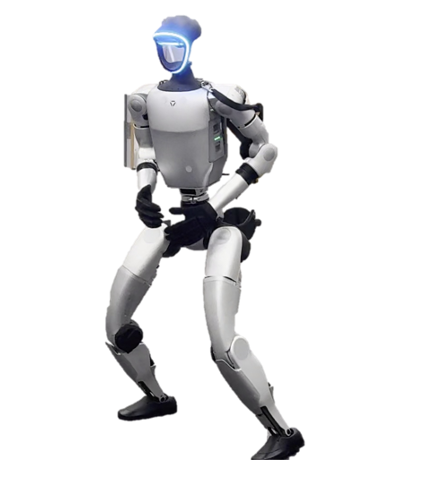
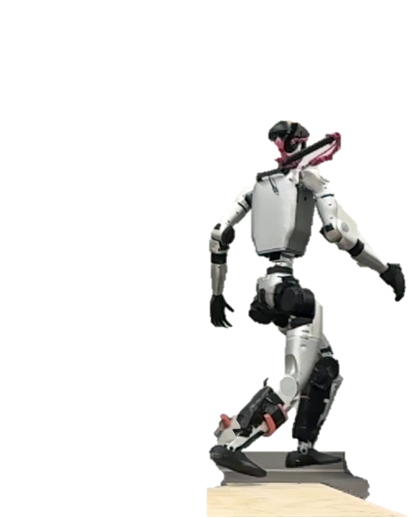
project page part of videos

diff --git a/index.html b/index.html
@@ -58,8 +58,8 @@
   <script src="./static/js/bulma-slider.min.js"></script>
   <script src="./static/js/index.js"></script>
 
-  <meta property="og:image" content="https://lecar-lab.github.io/FIRM-humanoid/static/images/hero_static.gif" />
-  <meta property="og:image:secure" content="https://lecar-lab.github.io/FIRM-humanoid/static/images/hero_static.gif" />
+  <meta property="og:image" content="https://lecar-lab.github.io/GaitSpan-humanoid/static/images/hero_static.gif" />
+  <meta property="og:image:secure" content="https://lecar-lab.github.io/GaitSpan-humanoid/static/images/hero_static.gif" />
 </head>
 
 <section class="hero is-link is-fullheight video">
@@ -184,58 +184,58 @@
     <div class="columns is-centered">
       <div class="column is-full-width">
         <h2 class="title is-2" style="text-align: center; padding-bottom: 10px;">
-          <em>Autonomous</em> Fall Damage Mitigation and Recovery
+           Gait Emergence and Transition via a <em>single</em> Policy
         </h2>      
-          <p class="content is-medium" style="text-align: center; padding-bottom: 20px;">1) We evaluate <strong style="color: #13c253; font-weight: 800;">FIRM</strong> under different types of terrains: <strong style="color: darkgreen; font-weight: 800;">Grass, Red-Soil Slope, Form, and Irregular debris</strong>. <strong style="color: #13c253; font-weight: 800;">FIRM</strong>  is also robust under perturbation with deformable payload. </p>
+<!--           <p class="content is-medium" style="text-align: center; padding-bottom: 20px;">We evaluate <strong style="color: #13c253; font-weight: 800;">GaitSpan</strong> under different types of  <strong style="color: darkblue; font-weight: 800;">speeds</strong>, <strong style="color: darkgreen; font-weight: 800;">terrains</strong>, and <strong style="color: orange; font-weight: 800;">embodiments</strong>. 
+             <br>
+           <strong style="color: #13c253; font-weight: 800;">GaitSpan</strong>  is also robust under various perturbations like heavy payload, and low-friction shoes that induce slippery contacts. </p> -->
+               <p class="content is-medium" style="text-align: center; padding-bottom: 20px;">
+                <span style="display: inline-block; text-align: left;">
+                  We evaluate <strong style="color: #13c253; font-weight: 800;">GaitSpan</strong> under different types of 
+                  <strong style="color: darkblue; font-weight: 800;">speeds</strong>, 
+                  <strong style="color: darkgreen; font-weight: 800;">terrains</strong>, and 
+                  <strong style="color: orange; font-weight: 800;">embodiments</strong>.
+                  All gaits in real world emerge from learning fully in simulation by using a readily available walking policy as the seed for growing new skills, without relying on human demos, or multi-expert learning with gait labels.
+                </span>
+              </p>
+              
             <div class="columns">
               <div class="column has-text-centered">
-                <video autoplay muted loop playsinline controls preload="auto" 
-                       src="./static/videos/12-outdoor-uneven.mov" 
+                <video autoplay loop playsinline controls preload="auto" 
+                       src="./static/videos/gs-main-teaser.mov" 
                        width="100%" style="border-radius:10px;">
                  </video>
               </div>
             </div>
+            </p> 
+               <p class="content is-medium" style="text-align: center; padding-bottom: 20px;">
+                <span style="display: inline-block; text-align: left;">
+                  <strong style="color: #13c253; font-weight: 800;">GaitSpan</strong> is also robust under various perturbations, like heavy payloads and low-friction shoes that induce slippery contacts. 
+                </span>
+              </p>
             <div class="columns is-centered">
               <div class="column has-text-centered">
                 <video autoplay muted loop playsinline controls preload="auto" 
-                       src="./static/videos/12-indoor-uneven.mov" 
+                       src="./static/videos/payload-weight.mov" 
                        width="100%" style="border-radius:10px;">
                 </video>
+                <p style="margin-top: 0.5rem; font-size: 0.95rem;">
+                    <strong>(a)</strong> Heavy payload & low-friction shoes perturbation.
+                </p>
+
               </div>
               <div class="column has-text-centered">
                 <video autoplay muted loop playsinline controls preload="auto" 
-                       src="./static/videos/12-indoor-payload.mov" 
+                       src="./static/videos/w_payload_shoes.mov" 
                        width="100%" style="border-radius:10px;">
                 </video>
+                <p style="margin-top: 0.5rem; font-size: 0.95rem;">
+                    <strong>(b)</strong> Acceleration from 0.5 m/s to 2.5 m/s under perturbations.
+                </p>
               </div>
             </div>
         
             <p> 
-            <p class="content is-medium" style="text-align: center; padding-bottom: 20px;">2) We compare the performance of <strong style="color: #13c253; font-weight: 800;">FIRM</strong> with <strong style="color: #e63946; font-weight: 800;"> FIRM wo Online Adapter</strong> to better evaluate context-awareness. </p>  
-          <!-- Row 1 -->
-          <div class="columns is-vcentered">
-            <!-- Left: FIRM w/o Online Adapter -->
-            <div class="column has-text-centered">
-              <h3 class="title is-3" style="margin-bottom: 10px; font-size: x-large;">
-                FIRM w/o Online Adapter
-              </h3>
-              <video autoplay muted loop playsinline controls preload="auto"
-                     src="./static/videos/no-adapt.mov"
-                     style="width: 100%; border-radius:10px;">
-              </video>
-            </div>
-
-            <!-- Right: FIRM (Ours) -->
-            <div class="column has-text-centered">
-              <h3 class="title is-3" style="margin-bottom: 10px; font-size: x-large;">
-                FIRM (Ours)
-              </h3>
-              <video autoplay muted loop playsinline controls preload="auto"
-                     src="./static/videos/adapt.mov"
-                     style="width: 100%; border-radius:10px;">
-              </video>
-            </div>
-          </div>
       </div> 
     </div>
   </div>
@@ -294,7 +294,7 @@
           Fall Damage Mitigation
         </h2>
         <p class="content is-medium" style="text-align: center; padding-bottom: 20px;">
-          We compare the quantitative performance of <strong style="color: #13c253; font-weight: 800;">FIRM</strong> with two <strong style="color: #e63946; font-weight: 800;">baselines</strong> that uses <em>passive control when fall happens (i.e., Freezing Mode) and pure tracking (i.e., sparse key-frame tracking)</em>, on the simulator.
+          We compare the quantitative performance of <strong style="color: #13c253; font-weight: 800;">GaitSpan</strong> with two <strong style="color: #e63946; font-weight: 800;">baselines</strong> that uses <em>passive control when fall happens (i.e., Freezing Mode) and pure tracking (i.e., sparse key-frame tracking)</em>, on the simulator.
         </p> 
               <div class="column">
               <!--   <h3 class="title is-3" style="text-align: center; margin-bottom: 10px; font-size: x-large;"></h3> -->
@@ -320,7 +320,7 @@
           Fall Recovery
         </h2>
         <p class="content is-medium" style="text-align: center; padding-bottom: 20px;">
-          1) We evaluate real-world performance of <strong style="color: #13c253; font-weight: 800;">FIRM</strong> on different terrian environments.
+          1) We evaluate real-world performance of <strong style="color: #13c253; font-weight: 800;">GaitSpan</strong> on different terrian environments.
         </p>        
         <tr>
           <td>
@@ -345,7 +345,7 @@
             <br>
             
         <p class="content is-medium" style="text-align: center; padding-bottom: 20px;">
-          2) We compare the real-world performance of <strong style="color: #13c253; font-weight: 800;">FIRM</strong> with a <strong style="color: #e63946; font-weight: 800;"> baseline</strong> that uses given trajectory (i.e., Unitree G1 Controller) on outdoor environments. </p>  
+          2) We compare the real-world performance of <strong style="color: #13c253; font-weight: 800;">GaitSpan</strong> with a <strong style="color: #e63946; font-weight: 800;"> baseline</strong> that uses given trajectory (i.e., Unitree G1 Controller) on outdoor environments. </p>  
           <div class="columns is-vcentered">
             <div class="column has-text-centered">
               <h3 class="title is-2" style="margin-bottom: 10px; font-size: x-large;">
@@ -358,7 +358,7 @@
             </div>
             <div class="column has-text-centered">
               <h3 class="title is-2" style="margin-bottom: 10px; font-size: x-large;">
-                FIRM (Ours)
+                GaitSpan (Ours)
               </h3>
               <video autoplay muted loop playsinline controls preload="auto"
                      src="./static/videos/ours-wave-1.mov"
@@ -376,99 +376,179 @@
 
 
 <section class="section">
-  <div class="container" style="max-width: 960px; margin: 0 auto;">
-    <div class="columns is-centered has-text-centered">
-      <div class="column is-two-thirds">
-        <h2 class="title is-2">Abstract</h2>
-        <div class="content has-text-justified">
-          <p> Falling is an inherent risk of humanoid mobility. Maintaining stability is thus a primary safety focus in robot control and learning, yet no existing approach fully averts loss of balance.When instability does occur, prior work addresses only isolated aspects of falling: avoiding falls, choreographing a controlled descent, or standing up afterward.  Consequently, humanoid robots lack integrated strategies for impact mitigation and prompt recovery when real falls defy these scripts.
-          <span class="method" style="color: darkred;">We aim to go beyond keeping balance to make the entire fall-and-recovery process safe and autonomous</span> : prevent falls when possible, reduce impact when unavoidable, and stand up when fallen. By fusing sparse human demonstrations with reinforcement learning and an adaptive diffusion-based memory of safe reactions, we learn whole-body behaviors that unify fall prevention, impact mitigation, and rapid recovery in one policy.
-          Experiments in simulation and on a Unitree G1 demonstrate robust sim-to-real transfer, lower impact forces, and consistently fast recovery across diverse disturbances, pointing toward safer, more resilient humanoids in real environments.
-          </p>
-        </div>
+  <div class="container" style="max-width: 1024px; margin: 0 auto;">
+    <div style="
+      background-color: #f1f1f1;
+      padding: 28px 34px;
+      border-radius: 0px;
+    ">
+      <h2 class="title is-2" style="
+        text-align: left;
+        margin-bottom: 1.4rem;
+        font-weight: 600;
+        color: #4a4a4a;
+      ">
+        Abstract
+      </h2>
+
+      <div class="content has-text-justified" style="
+        font-size: 1.02rem;
+        line-height: 1.65;
+        color: #4a4a4a;
+      ">
+        <p>
+          Current approaches often obtain gait diversity by prescribing gait schedules,
+          imitating motion clips, training experts to switch between or distilling skills into
+          one policy. These strategies can produce impressive behaviors, but offer limited
+          flexibility across continuous speed commands, terrains, and morphologies.
+
+          We study skill growth with
+          <strong style="color: #13c253; font-weight: 800;">GaitSpan</strong>,
+          a framework that expands a pretrained, basic walking policy into faster locomotion.
+          It treats walking as a seed skill: reusable motor structure for balance, support,
+          body coordination, and contact transition that can be regenerated at new rhythms,
+          extended into longer/higher strides, and corrected by residual adaptation.
+
+          This expansion has three aspects:
+          1) <span style="color: #6b8e23; font-weight: 700;">rhythm generation</span>,
+          which modulates the frozen walking policy with multiple internal clocks and learns
+          command-conditioned combinations of the resulting canonical actions;
+          2) <span style="color: #6b8e23; font-weight: 700;">stride shaping</span>,
+          which rewards dynamic locomotion patterns appropriate for higher commanded speeds
+          using a physically grounded objective inspired by spring-loaded inverted pendulum
+          dynamics; and
+          3) <span style="color: #6b8e23; font-weight: 700;">residual adaptation</span>,
+          which captures motion details not accounted for by rhythm generation or stride shaping.
+
+          GaitSpan is the first to deliver a single command-conditioned humanoid policy that
+          spans walking, jogging, and running-like regimes covering a continuous speed range,
+          transfers across morphologies, and deploys zero-shot on unseen sim-to-sim and
+          real-world terrains.
+        </p>
       </div>
     </div>
   </div>
 </section>
 
+<section class="section">
+  <div class="container" style="max-width: 1024px; margin: 0 auto;">
+
+    <h2 class="title is-2" style="
+      text-align: left;
+      margin-bottom: 1.2rem;
+      color: #4a4a4a;
+      font-weight: 600;
+    ">
+      Method Overview
+    </h2>
+
+    <div class="has-text-centered" style="margin-bottom: 1.2rem;">
+      <img src="./static/images/gs-framework-overview.png"
+           alt="GaitSpan method overview"
+           style="width: 100%; max-width: 980px;" />
+    </div>
+
+    <div class="content has-text-justified" style="
+      font-size: 1.02rem;
+      line-height: 1.65;
+      color: #4a4a4a;
+    ">
+      <p>
+        <strong>Framework Overview.</strong>
+        Starting from a frozen walking policy as the seed,
+        <strong style="color: #13c253; font-weight: 800;">GaitSpan</strong>
+        expands locomotion through three components.
+        <span style="color: #6b8e23; font-weight: 700;">GaitWave</span>
+        grows rhythm through hierarchical composition of seed-derived action waves,
+        <span style="color: #6b8e23; font-weight: 700;">H-SLIP</span>
+        shapes dynamic stride events, and a
+        <span style="color: #6b8e23; font-weight: 700;">residual branch</span>
+        supplies additional adaptation. Together, they yield a single command-conditioned policy
+        spanning walking-, jogging-, and running-like regimes.
+      </p>
+    </div>
+
+  </div>
+</section>
+
 
 <section class="section">
-  <div class="container" style="max-width: 960px; margin: 0 auto;">
-    <h2 class="title is-2" style="text-align: center;">Method</h2>
-    <div class="columns is-centered has-text-centered">
-      <div class="column is-two-thirds">
-        <div class="content has-text-justified">
+  <div class="container" style="max-width: 1024px; margin: 0 auto;">
+
+    <h2 class="title is-2" style="
+      text-align: left;
+      margin-bottom: 1.2rem;
+      color: #4a4a4a;
+      font-weight: 600;
+    ">
+      Why Grow Skills?
+    </h2>
+
+    <div class="columns is-vcentered is-centered">
+
+      <!-- Left: Text -->
+      <div class="column is-half">
+        <div class="content has-text-justified" style="
+          font-size: 1.02rem;
+          line-height: 1.65;
+          color: #4a4a4a;
+        ">
           <p>
-             We present <span class="method" style="color: green;">FIRM</span>, (short for <span class="method" style="color: darkred;">F</span>all m<span class="method" style="color: darkred;">i</span>tigation and <span class="method" style="color: darkred;">r</span>ecovery from a few human de<span class="method" style="color: darkred;">m</span>onstrations), a control policy for the diverse, complex dynamics of humanoid falling and recovery.  FIRM unifies fall mitigation and recovery in a single framework that balances <span class="method" style="color: darkred;">safety</span> and <span class="method" style="color: darkred;">behavioral diversity</span>.  It operates in two stages:
-             </p>
-            1) Skill priors: a few human demonstrations are fitted and retargeted to the G1 humanoid, then sparsified into key frames.  These seed skills are expanded with RL-based augmentation and post-stitching to produce diverse, damage-reducing trajectories.  
-            </p>
-            2) Adaptive memory: the enriched trajectories are distilled into a diffusion model and paired with a lightweight adapter that enables real-time fall mitigation and recovery across varied conditions.
+            Locomotion is how a body carries itself through the world by regulating
+            contact, balance, and momentum. In humans, walking, jogging, and running
+            are not isolated behaviors, but related regimes of a growing motor skill.
+            This suggests a broader view of skill acquisition: new behaviors could be
+            reused and extended from existing motor structure, rather than be learned from scratch.
+          </p>
+
+          <p>
+            <strong style="color: #13c253; font-weight: 800;">GaitSpan</strong>
+            makes walking-to-jogging-to-running a concrete demonstration of skill growth
+            in humanoid learning. Existing skills serve not only as endpoints, but as
+            seed priors for growing behavior families. This could point to a higher-performing,
+            more robust, and more scalable route for humanoid skill acquisition.
           </p>
         </div>
       </div>
-    </div>
-    <div class="columns is-centered has-text-centered">
-      <div class="column is-three-thirds">
-        <div class="content has-text-justified">
-          <!-- <ol type="a">
-            There are two steps within the <span class="method" style="color: darkred;">FIRM</span> framework:
-              <ol>
-                <li><strong>Two-Agent Joint Training with Whole-Body Proprioception</strong>:  <br>Two agents, each assigned distinct sub-tasks, are jointly trained using shared whole-body proprioception signals. During training, randomized 3D external forces—bounded by the upper-body joint torque limits—are applied to the end-effectors to encourage robust coordination;</li>
-                <li><strong>External Disturbance Handling via Force Perturbation</strong><br> The agents learn to maintain task performance under force perturbations, developing complementary behaviors to counteract disturbances and achieve stable loco-manipulation.</li>
-              </ol> -->
-        </div>
+
+      <!-- Right: Placeholder Image -->
+      <div class="column is-half has-text-centered">
+        <img src="./static/images/gs-positioning.png"
+             alt="Skill growth positioning"
+             style="
+               width: 100%;
+               max-width: 460px;
+               border-radius: 10px;
+             " />
+
+        <p style="
+          margin-top: 0.6rem;
+          font-size: 0.95rem;
+          color: #666;
+          line-height: 1.4;
+        ">
+           <strong>The conceptual framework differences with Current Methodologies</strong>. 
+        </p>
       </div>
+
     </div>
-    <div class="columns is-centered">
-      <div class="column is-four-fifth has-text-centered">
-        <img src="./static/images/firm-overview.png" alt="" style="width: 67%;" />
-      </div>
-    </div>
+
+  </div>
+</section>
+
+
 
     
-<section class="section">
-  <div class="container" style="max-width: 960px; margin: 0 auto;">
-    <h2 class="title is-2" style="text-align: center;">Adaptive safe control - lightweight online adapter</h2>
-    <div class="columns is-centered has-text-centered">
-      <div class="column is-two-thirds">
-        <div class="content has-text-justified">
-          <p>
-            During inference, the adapter uses
-            the history of observations to dynamically predict a feature and match with
-            a key-frame goal feature in the code-book, and then pass the matched goal
-            feature into the diffusion model to guide the process with context-awareness.
-          </p>
-        </div>
-      </div>
-    </div>
-    <div class="columns is-centered has-text-centered">
-      <div class="column is-three-thirds">
-        <div class="content has-text-justified">
-          <!-- <ol type="a">
-            There are two steps within the <span class="method" style="color: darkred;">FIRM</span> framework:
-              <ol>
-                <li><strong>Two-Agent Joint Training with Whole-Body Proprioception</strong>:  <br>Two agents, each assigned distinct sub-tasks, are jointly trained using shared whole-body proprioception signals. During training, randomized 3D external forces—bounded by the upper-body joint torque limits—are applied to the end-effectors to encourage robust coordination;</li>
-                <li><strong>External Disturbance Handling via Force Perturbation</strong><br> The agents learn to maintain task performance under force perturbations, developing complementary behaviors to counteract disturbances and achieve stable loco-manipulation.</li>
-              </ol> -->
-        </div>
-      </div>
-    </div>
-    <div class="columns is-centered">
-      <div class="column is-four-fifth has-text-centered">
-        <img src="./static/images/adapt.png" alt="" style="width: 50%;" />
-      </div>
-    </div>
-  </section>
+
     
   <section class="section" id="BibTeX">
     <div class="container content">
       <h2 class="titile">BibTeX</h2>
-      <pre><code>@article{anonymous2025firm,
-        title={FIRM},
+      <pre><code>@article{anonymous2026GaitSpan,
+        title={GaitSpan},
         author={anonymous},
         journal={},
-        year={2025}
+        year={2026}
       }</code></pre>
     </div>
   </section>